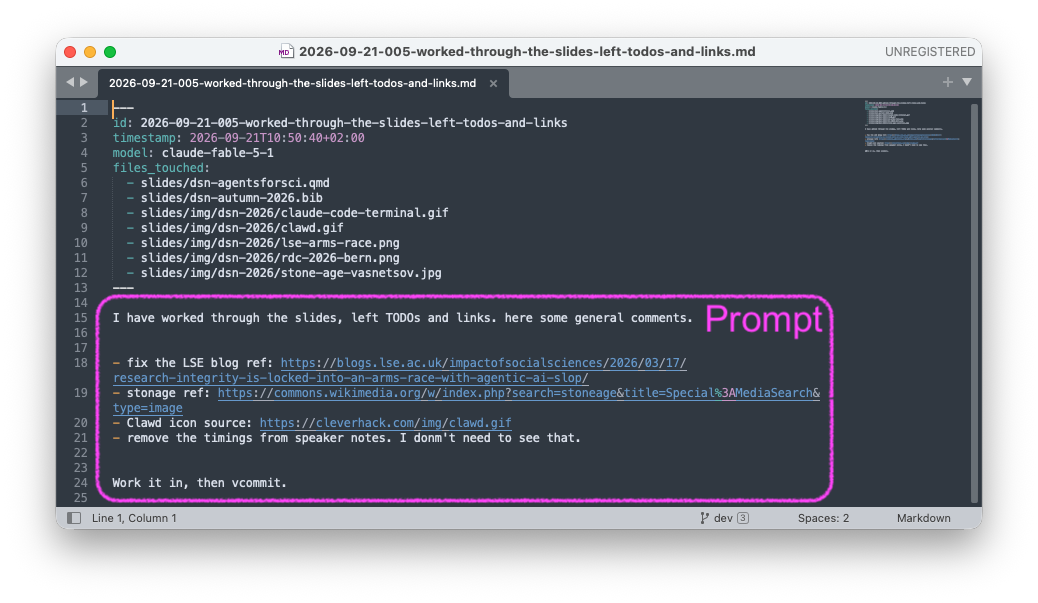
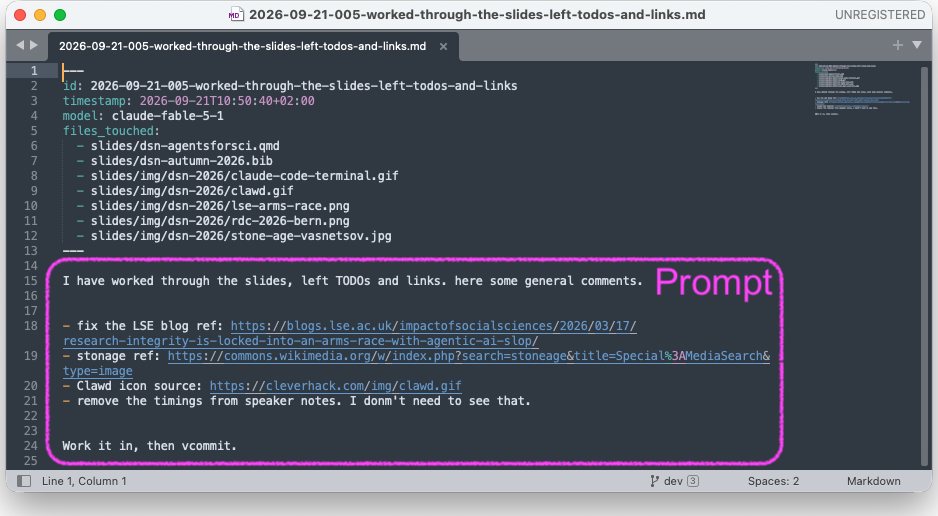
docs(slides): fit the text on five overflowing slides
Slides 11, 13, 16, 18, and 19 ran past the bottom of the slide. The
body text of the five slides now uses the existing small class. On
the two screenshot slides the gap between the image and the text came
from the macOS window captures, which carry about 70 px of transparent
shadow margin below the window. Both PNGs are cropped to the window
with a thin shadow, and a new tight slide class drops the stacked
margins of image, paragraph, and figure. The image heights are set to
260 and 320 so the text sits right below, and the footer of slide 19
no longer runs into the slide number.

Prompts:
- 2026-09-21-015-slide-11-13-16-18-19-text-overflowing

Assisted-by: Claude claude-fable-5-1

diff --git a/slides/slides.scss b/slides/slides.scss
@@ -162,6 +162,24 @@ $presentation-font-size-root: 36px !default;
   margin-bottom: 0.2em;
 }
 
+// Tight figure slides: a screenshot with the text right below it. Drops the
+// stacked margins of image, paragraph, and figure that otherwise add ~100 px.
+.reveal .tight .quarto-figure {
+  margin-bottom: 0.2em;
+}
+
+.reveal .tight figure {
+  margin: 0;
+}
+
+.reveal .tight figure p {
+  margin: 0;
+}
+
+.reveal .tight figure img {
+  margin: 0.2em 0;
+}
+
 /* Stronger hyperlink styling for legibility */
 .reveal a {
   text-decoration: underline;

diff --git a/prompts/2026-09-21-015-slide-11-13-16-18-19-text-overflowing.md b/prompts/2026-09-21-015-slide-11-13-16-18-19-text-overflowing.md
@@ -1,0 +1,14 @@
+---
+id: 2026-09-21-015-slide-11-13-16-18-19-text-overflowing
+timestamp: 2026-09-21T14:45:25+02:00
+model: claude-fable-5-1
+files_touched:
+  - slides/dsn-agentsforsci.qmd
+  - slides/slides.scss
+  - slides/img/dsn-2026/prompts-folder.png
+  - slides/img/dsn-2026/prompt-file.png
+---
+
+slide 11, 13, 16, 18, 19 all have text overflowing at bottom of screen. reduce text size. and reduce white space between screenshot and text: 
+
+[Image #1]
